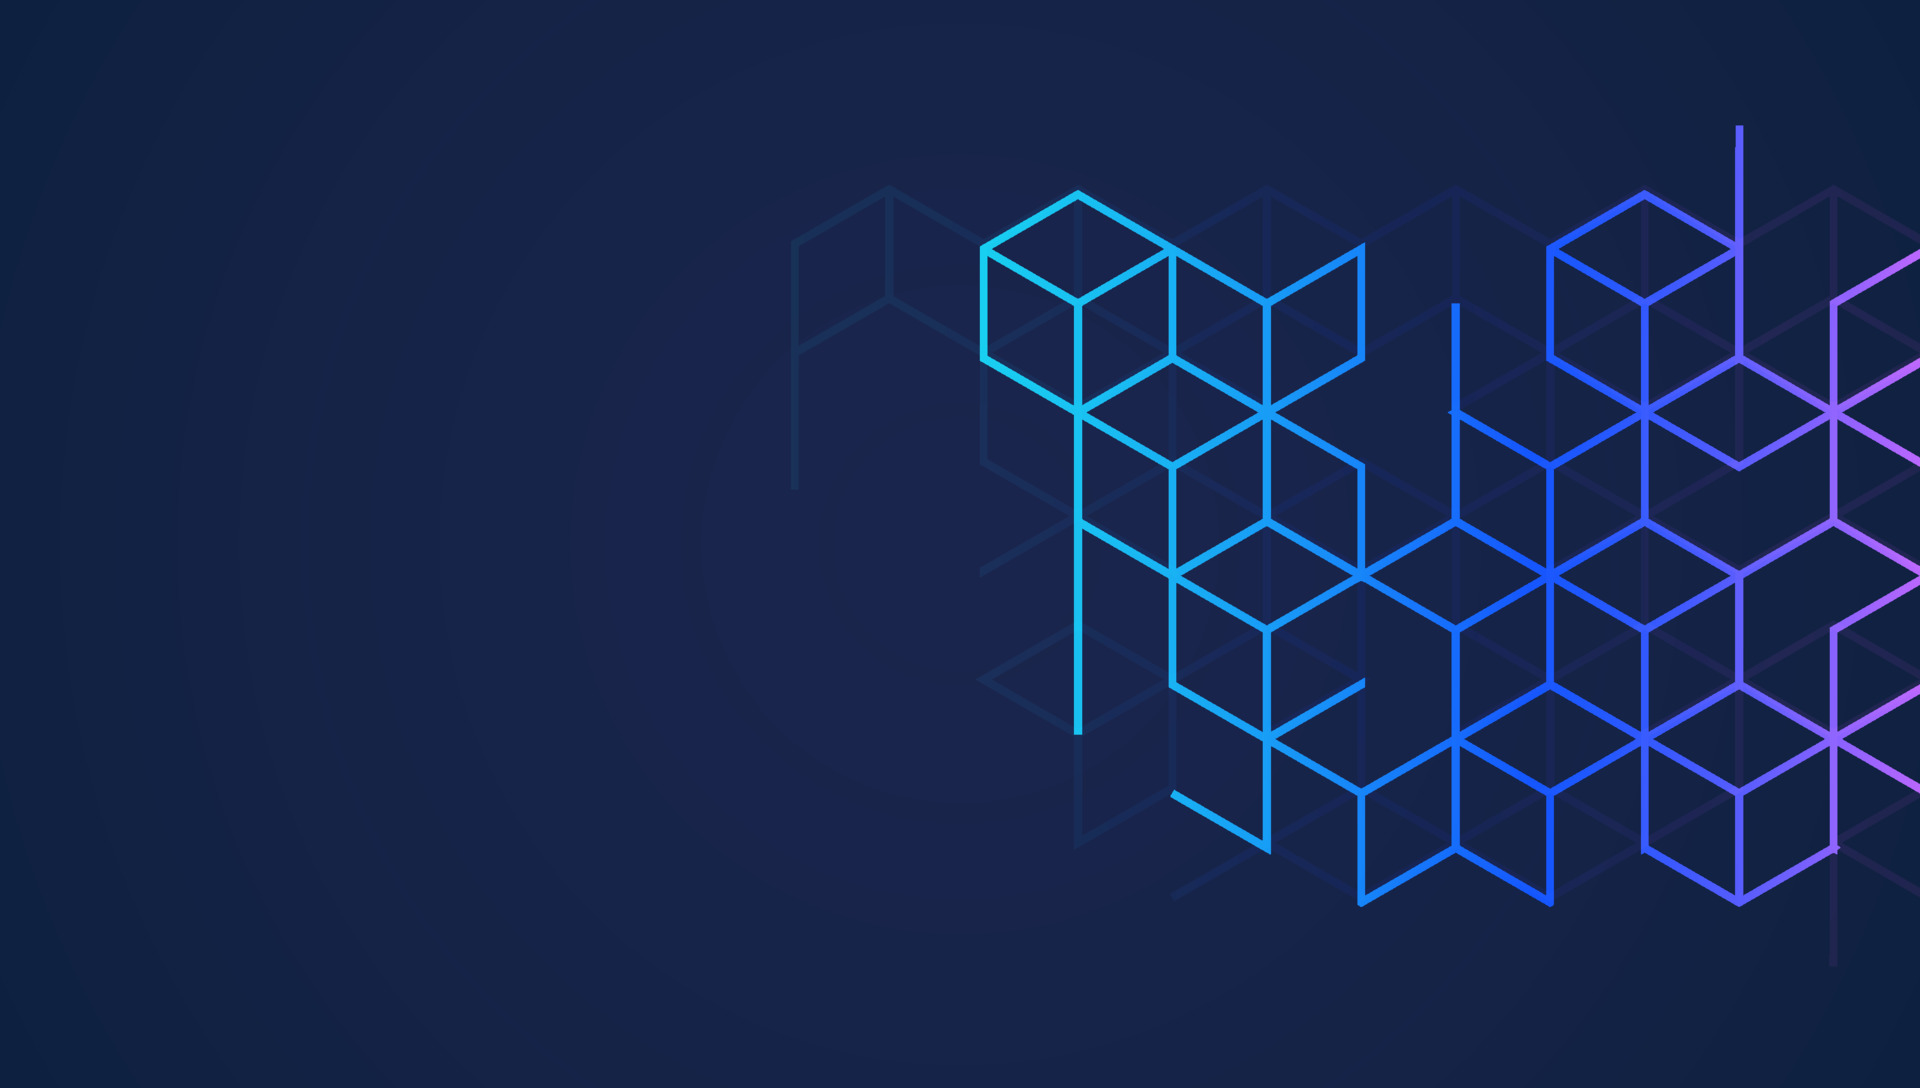
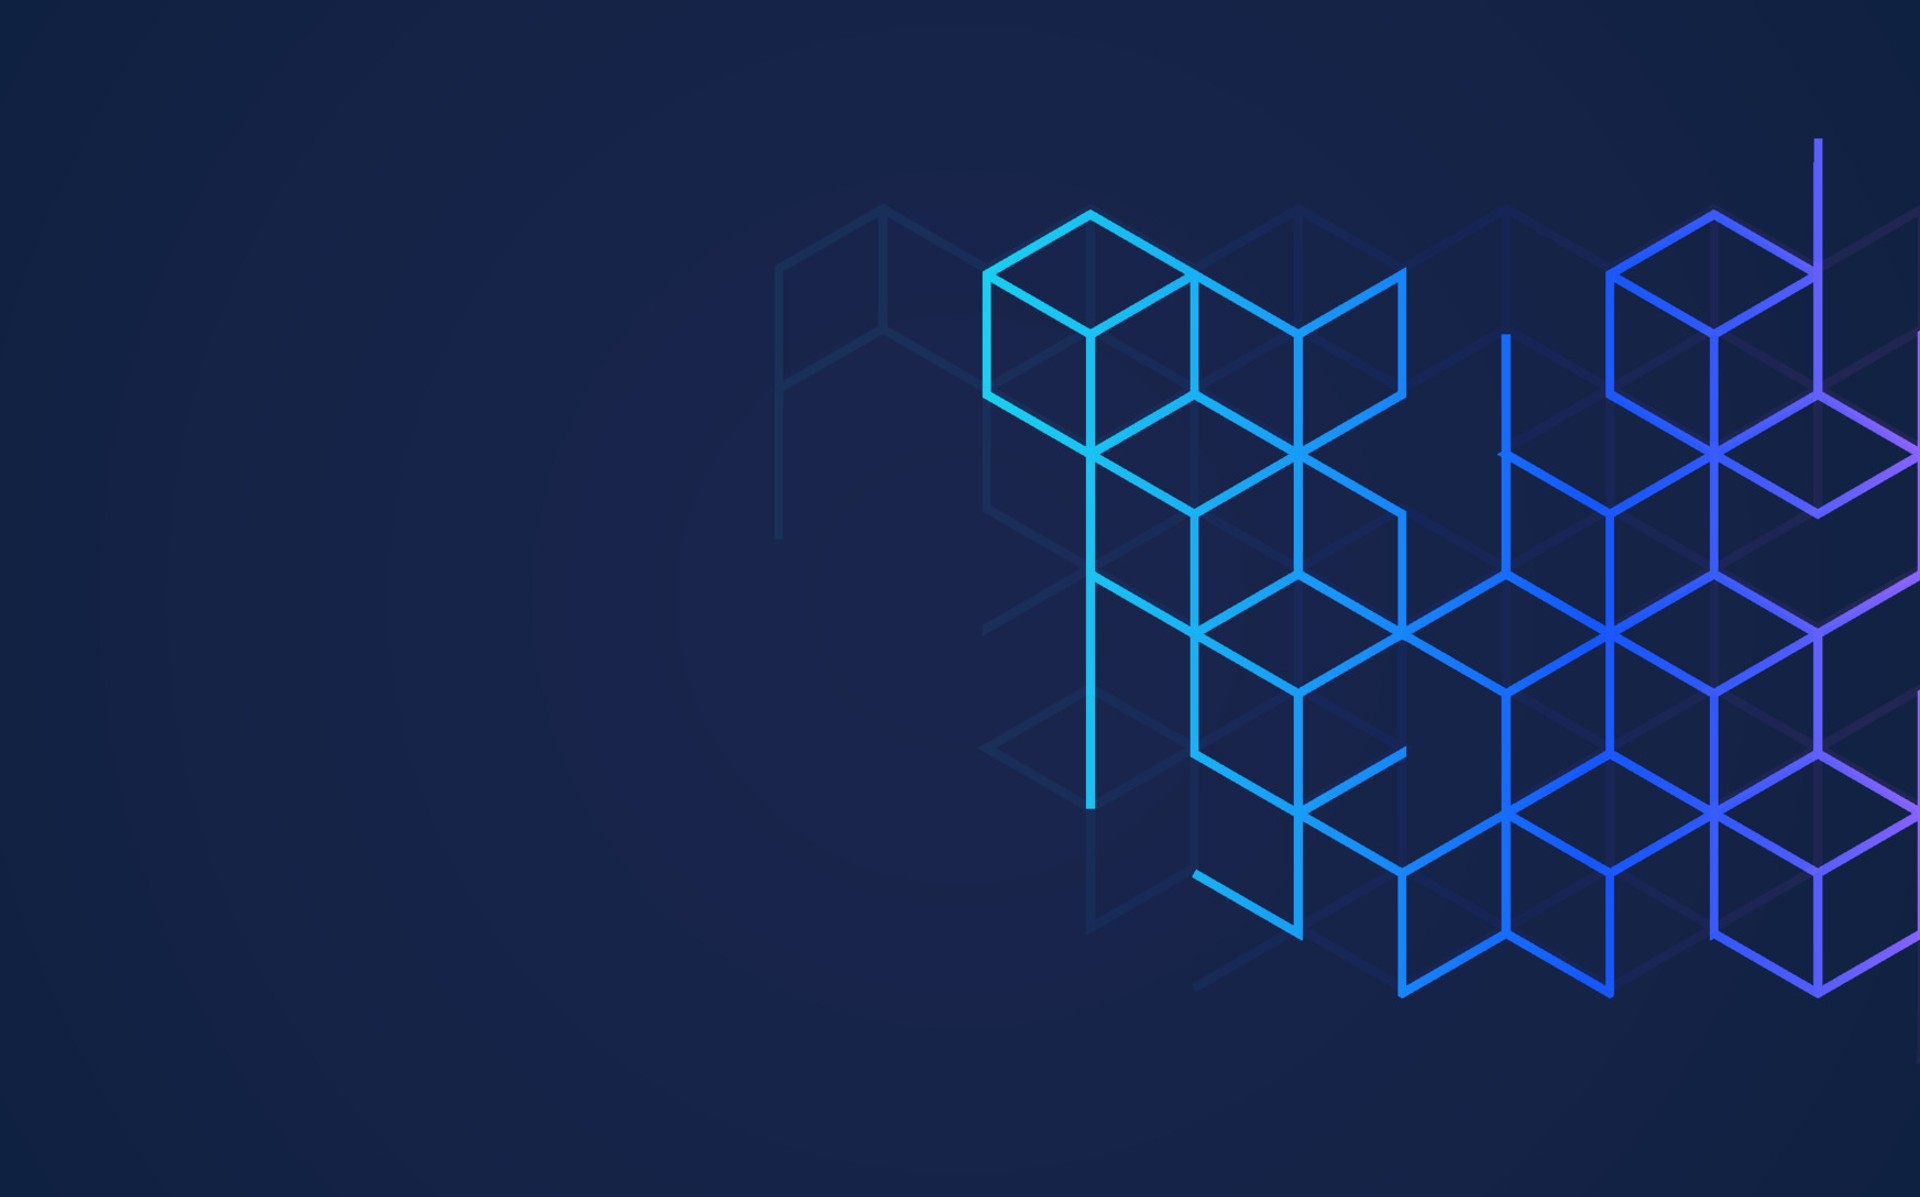
feat(hero): increase hero image height 10%, center content with equal padding

Changed region(s): [[0.5, 0.125, 1.0, 0.8438]]

diff --git a/src/app/page.tsx b/src/app/page.tsx
@@ -24,12 +24,12 @@ export default async function HomePage() {
 
   return (
     <>
-      <section className="relative isolate w-full overflow-hidden border-b border-border bg-[#04070f] text-white">
+      <section className="relative isolate flex min-h-[32rem] items-center overflow-hidden border-b border-border bg-[#04070f] text-white sm:min-h-[36rem] lg:min-h-[40rem]">
         <div
           aria-hidden="true"
           className="absolute inset-0 -z-20 bg-[url(/hero-banner.jpg)] bg-cover bg-center bg-no-repeat"
         />
-        <div className="container-page py-16 sm:py-24">
+        <div className="container-page w-full py-12 sm:py-16">
           <div className="max-w-3xl">
             <p className="text-sm font-semibold tracking-wide text-sky-300 uppercase">
               Runs entirely in your browser
